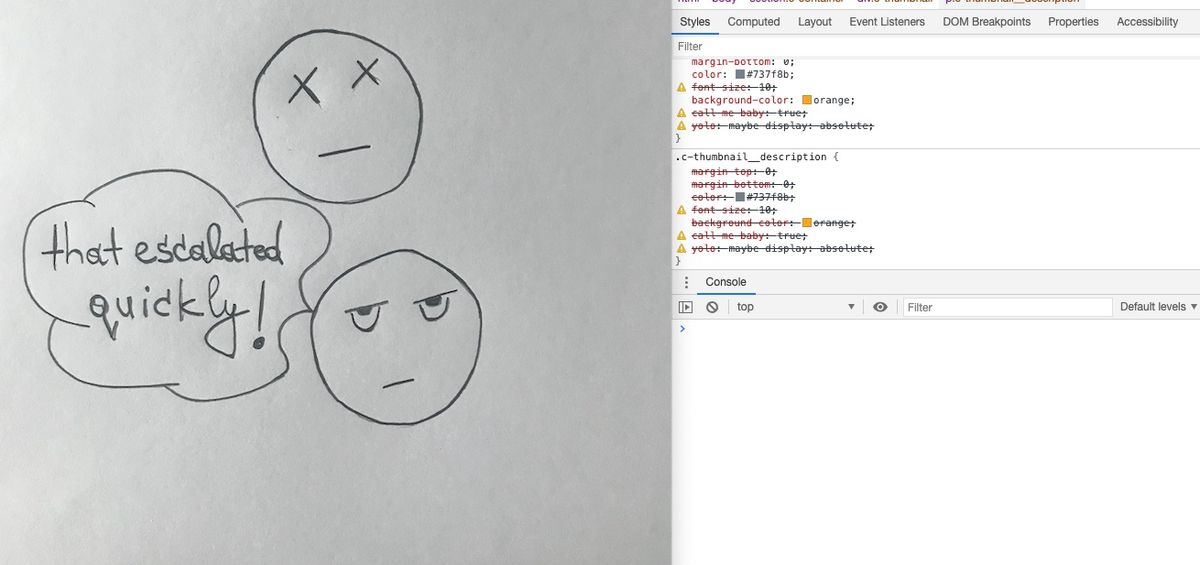
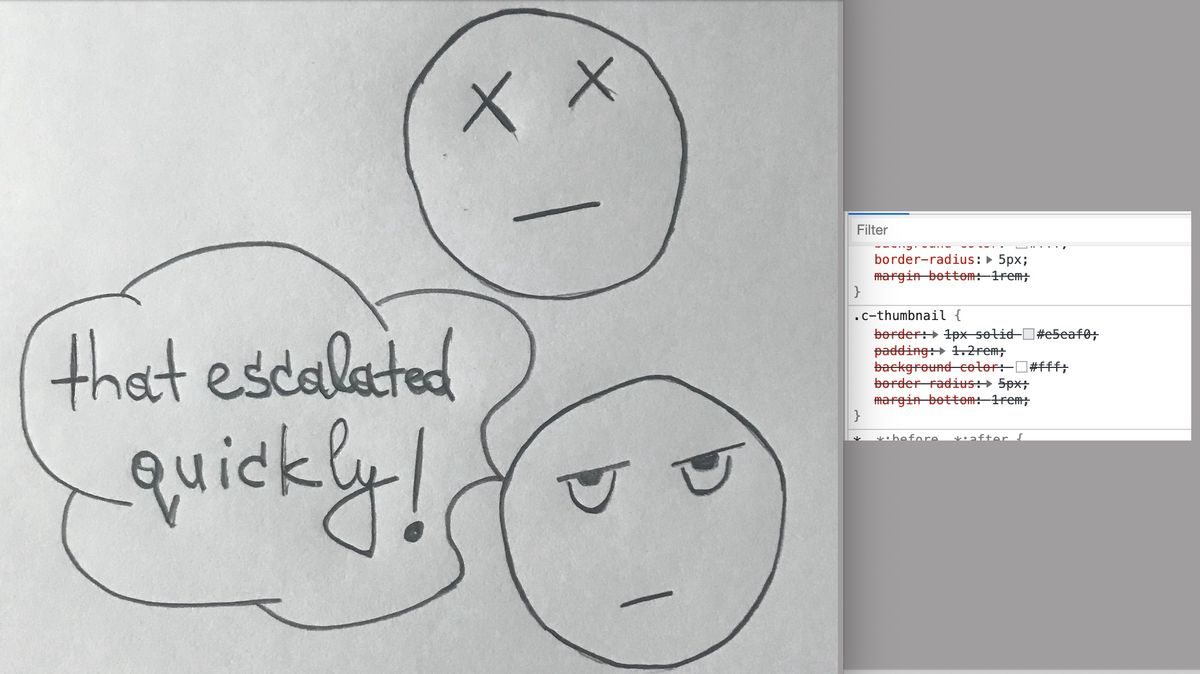
Update

diff --git a/resize-images.js b/resize-images.js
@@ -19,9 +19,10 @@ const changeInFolder = ({ directory, width }) => {
  * width: 1200 - desktop
  * width: 1000 - inpost images
  * width: 700 - inpost mobile
- * width: 970 - hero
+ * width: 1200 - hero
  * width: 750 - hero small
- * width: 480 - thumbnail
+ * width: 650 - thumbnail desktop
+ * width: 480 - thumbnail moible
  */
 const changeFile = ({ path, width }) => {
   sharp(path)
@@ -33,4 +34,4 @@ const changeFile = ({ path, width }) => {
 };
 
 // changeFile({ path: './public/images/blog/thumbnails/thumbnail-4.jpg', width: 480 });
-changeInFolder({ directory: './public/images/blog/edit', width: 700 });
+changeInFolder({ directory: './public/images/blog/edit', width: 480 });

diff --git a/data/posts/content/how-to-write-cleaner-css-when-implementing-a-responsive-design.md b/data/posts/content/how-to-write-cleaner-css-when-implementing-a-responsive-design.md
@@ -15,8 +15,9 @@ index: 5
   <ul class="c-table-of-content__list">
     <li class="c-table-of-content__item"><a href="#section-1">Introduction</a></li>
     <li class="c-table-of-content__item"><a href="#section-2">Approach 1 | Implement the desktop design first and mobile later</a></li>
-    <li class="c-table-of-content__item"><a href="#section-2">Approach 2 | Implement the mobile design first and desktop later</a></li>
-    <li class="c-table-of-content__item"><a href="#section-2">Solution | Merge both attempts in one great approach</a></li>
+    <li class="c-table-of-content__item"><a href="#section-3">Approach 2 | Implement the mobile design first and desktop later</a></li>
+    <li class="c-table-of-content__item"><a href="#section-4">Solution | Merge both attempts in one great approach</a></li>
+    <li class="c-table-of-content__item"><a href="#section-5">Lasts thoughts</a></li>
   </ul>
 </div>
 <section>
@@ -106,7 +107,7 @@ You may do something like this.
 
 This approach is slightly better than the first one because you have to add only some additional rules without overriding the old ones when you start small to big. Still, you’ll have to override some of them at some point.
 
-What if you have another element that has different styling on desktop than on mobile, and we can't just add new properties, but we need to override the old ones again.
+What if you have another element that has different styling on desktop than on mobile, and we can't just add new properties, and need to override the old ones again.
 
 ```css
 /* 1. mobile */
@@ -138,6 +139,8 @@ What if I would tell you that there is a better way.
 
 <h2 id="section-4">Merge both approaches in one great solution</h2>
 
+Write cleaner CSS and avoid seeing it crossed out by encapsulating it in different media queries when implementing a responsive design.
+
 ```css
 /* 1. general */
 .c-container {
@@ -145,10 +148,19 @@ What if I would tell you that there is a better way.
   margin: 0 auto;
 }
 
+.c-thumbnail__title {
+  font-weight: 500;
+}
+
 /* 2. mobile */
 @media screen and (max-width: 749px) {
   .container {
     padding: 1rem;
+  }
+
+  .c-thumbnail__title {
+    font-size: 1.1rem;
+    margin-bottom: 0.5rem;
   }
 }
 
@@ -158,6 +170,11 @@ What if I would tell you that there is a better way.
     display: flex;
     justify-content: space-between;
     padding: 1.5rem;
+  }
+
+  .c-thumbnail__title {
+    font-size: 1.2rem;
+    margin-bottom: 0.6rem;
   }
 }
 ```
@@ -172,27 +189,25 @@ blog5_|3|
 blog5_|4|
 ```
 
-Write cleaner CSS and avoid seeing it crossed out by encapsulating it in different media queries when implementing a responsive design.
-
 Talk is cheap, so I’ve created a <a href="https://codesandbox.io/s/spring-moon-gfpmt?file=/index.html" target="_blank" rel="noreferrer">CodeSandbox</a> and <a href="https://github.com/victorjeman/clean-responsive-css-example" target="_blank" rel="noreferrer">GitHub</a> project where you have the complete example with different CSS files exploring all three approaches.
 
 Check them out.
 
 **P.S.** There is a small mistake in the **clean-responsive.css** file, an overriding CSS declaration. See if you can spot it.
 
-<h2 id="#section-5">Lasts thoughts</h2>
+<h2 id="section-5">Lasts thoughts</h2>
 
 Of course, there are times when we have to override something to which we don’t have direct access.
 Maybe we added a fancy UI kit that is doing 50% of what we need, and the rest needs to be adjusted.
 Maybe you are in a rush, and the project manager just wants you to fix the styling for that freaking button.
 What you gonna do, there is no point in ”wasting a day” 🤯 .
 
-Still, we should strive to make our CSS as straightforward as possible when we have a chance. One way is to encapsulate your CSS blocks in particular media queries when implementing a responsive design. This approach won’t solve all your problems, but it will make it easier to debug big projects’ style.
+Still, we should strive to make our CSS as straightforward as possible when we have a chance. One way is to encapsulate your CSS blocks in particular media queries when implementing a responsive design. This approach won’t solve all your problems, but it will make it easier to debug a big project’s style.
 
-See this <a href="https://developer.chrome.com/docs/devtools/css/overrides/" target="_blank" rel="noreferrer">short tutorial</a> from Chrome Developers if you want to learn more about overriding CSS declarations.
+I’ve been using this approach for personal projects for a long time. It’s easier for me to keep things clean in small personal projects; can't say the same about all the projects that I've done 😀.
 
-I’ve been using this approach for personal projects for a long time. It’s easier for me to keep things clean in projects where only I work 😀. Two years ago, I also read <a href="https://www.smashingmagazine.com/2018/12/generic-css-mobile-first/" target="_blank" rel="noreferrer">this article</a>, which made me even more confident that this approach is worth using.
+Two years ago, I read <a href="https://www.smashingmagazine.com/2018/12/generic-css-mobile-first/" target="_blank" rel="noreferrer">this article</a>, which made me more confident that this approach is worth using.
 
-**Final P.S.** It will be awkward if you start inspecting this website and will see a bunch of overriding rules. Hopefully, there are no grave mistakes.
+See also this <a href="https://developer.chrome.com/docs/devtools/css/overrides/" target="_blank" rel="noreferrer">short tutorial</a> from Chrome Developers if you want to learn more about overriding CSS declarations.
 
 **Have a great day!**
